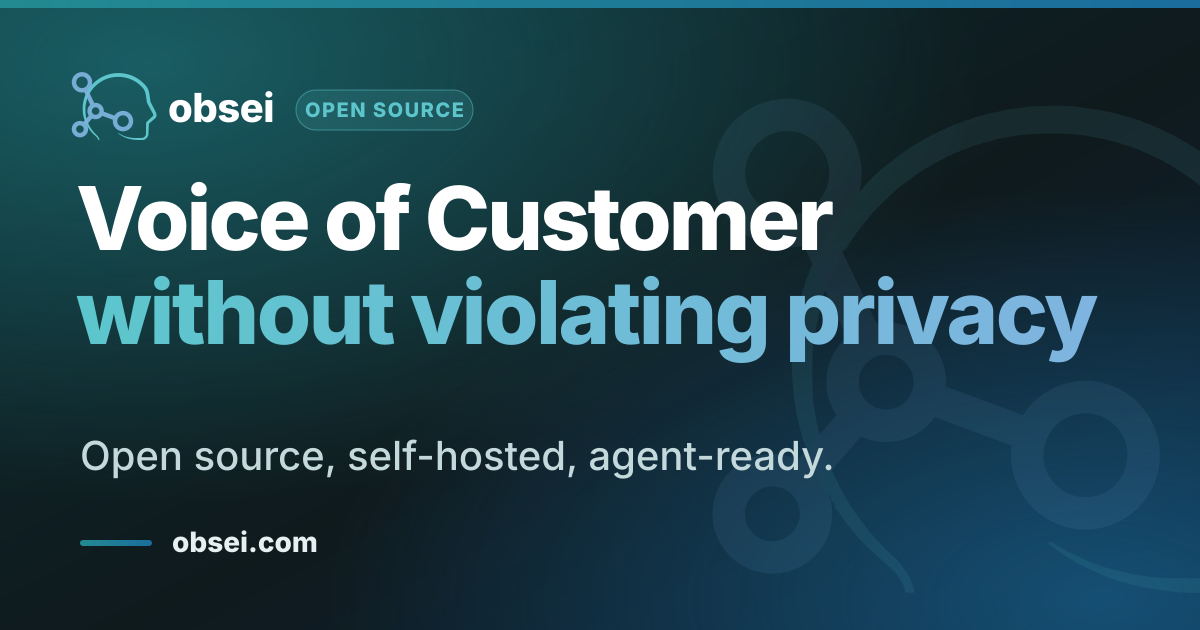
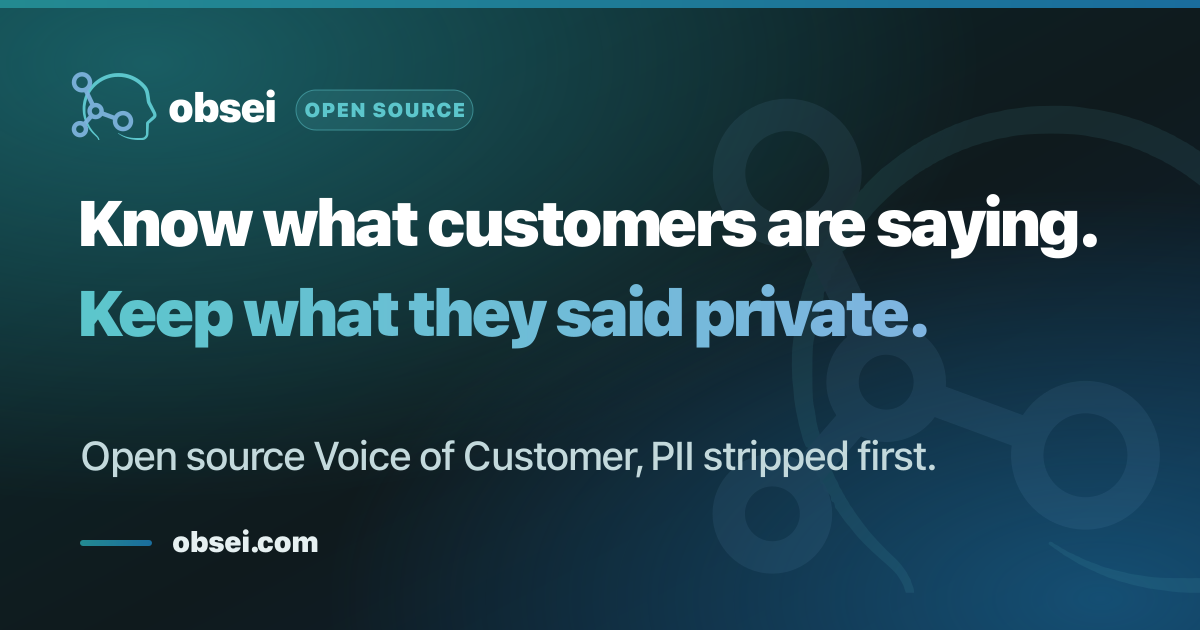
docs: one description everywhere, and a headline about customers (#475)

diff --git a/website/index.html b/website/index.html
@@ -3,26 +3,26 @@
   <head>
     <meta charset="utf-8" />
     <meta name="viewport" content="width=device-width, initial-scale=1" />
-    <title>obsei: self-hosted Voice of Customer that redacts PII</title>
-    <meta name="description" content="The self-hosted, open source alternative to Enterpret and Unwrap. obsei strips PII before any LLM sees customer feedback, from many channels and languages." />
+    <title>obsei: open source, privacy-first Voice of Customer</title>
+    <meta name="description" content="Open source customer intelligence that strips PII before any LLM sees it: a self-hosted alternative to Enterpret and Unwrap for reviews, tickets and calls." />
     <meta name="theme-color" content="#238a91" />
     <meta property="og:type" content="website" />
     <meta property="og:url" content="https://obsei.com/" />
     <link rel="canonical" href="https://obsei.com/" />
-    <meta property="og:title" content="obsei: Voice of Customer without violating privacy" />
-    <meta property="og:description" content="The self-hosted, open source alternative to Enterpret and Unwrap that strips PII before any LLM sees it." />
+    <meta property="og:title" content="obsei: open source, privacy-first Voice of Customer" />
+    <meta property="og:description" content="Open source, privacy-first Voice of Customer analytics. A self-hosted alternative to Enterpret and Unwrap that strips PII from feedback before any LLM sees it." />
     <meta property="og:site_name" content="obsei" />
     <meta property="og:image" content="https://obsei.com/og.png" />
     <meta property="og:image:type" content="image/png" />
     <meta property="og:image:width" content="1200" />
     <meta property="og:image:height" content="630" />
-    <meta property="og:image:alt" content="obsei: Voice of Customer without violating privacy. Open source, self-hosted, agent-ready." />
+    <meta property="og:image:alt" content="obsei: Know what customers are saying. Keep what they said private. Open source Voice of Customer." />
     <meta name="twitter:card" content="summary_large_image" />
-    <meta name="twitter:title" content="obsei: Voice of Customer without violating privacy" />
-    <meta name="twitter:description" content="The self-hosted, open source alternative to Enterpret and Unwrap that strips PII before any LLM sees it." />
+    <meta name="twitter:title" content="obsei: open source, privacy-first Voice of Customer" />
+    <meta name="twitter:description" content="Open source, privacy-first Voice of Customer analytics. A self-hosted alternative to Enterpret and Unwrap that strips PII from feedback before any LLM sees it." />
     <meta name="twitter:image" content="https://obsei.com/og.png" />
     <link rel="alternate" type="application/rss+xml" title="obsei blog" href="https://blog.obsei.com/rss.xml" />
-    <script type="application/ld+json">{"@context":"https://schema.org","@type":"SoftwareApplication","@id":"https://obsei.com/#software","name":"obsei","url":"https://obsei.com/","description":"The self-hosted, open source alternative to Enterpret and Unwrap that strips PII before any LLM sees it.","applicationCategory":"DeveloperApplication","applicationSubCategory":"Customer feedback analytics","featureList":["PII redaction at ingest","Author pseudonyms","Local multilingual classifier","Themes across languages","Theme spike alerts","MCP server for AI agents","Encrypted local store","Signed webhooks"],"keywords":"voice of customer, customer feedback analytics, PII redaction, self-hosted, open source, MCP, Enterpret alternative, Unwrap alternative","operatingSystem":"Linux, macOS, Windows","license":"https://www.apache.org/licenses/LICENSE-2.0","isAccessibleForFree":true,"offers":{"@type":"Offer","price":"0","priceCurrency":"USD"},"downloadUrl":"https://pypi.org/project/obsei/","installUrl":"https://docs.obsei.com/quickstart/","softwareHelp":{"@type":"CreativeWork","url":"https://docs.obsei.com/"},"codeRepository":"https://github.com/obsei/obsei","image":"https://obsei.com/og.png","screenshot":"https://obsei.com/studio-light.png","author":{"@id":"https://obsei.com/#organization"},"publisher":{"@id":"https://obsei.com/#organization"},"sameAs":["https://github.com/obsei/obsei","https://docs.obsei.com/","https://blog.obsei.com/","https://pypi.org/project/obsei/"]}</script>
+    <script type="application/ld+json">{"@context":"https://schema.org","@type":"SoftwareApplication","@id":"https://obsei.com/#software","name":"obsei","url":"https://obsei.com/","description":"Open source, privacy-first Voice of Customer analytics. A self-hosted alternative to Enterpret and Unwrap that strips PII from feedback before any LLM sees it.","applicationCategory":"DeveloperApplication","applicationSubCategory":"Customer feedback analytics","featureList":["PII redaction at ingest","Author pseudonyms","Local multilingual classifier","Themes across languages","Theme spike alerts","MCP server for AI agents","Encrypted local store","Signed webhooks"],"keywords":"voice of customer, customer feedback analytics, PII redaction, self-hosted, open source, MCP, Enterpret alternative, Unwrap alternative","operatingSystem":"Linux, macOS, Windows","license":"https://www.apache.org/licenses/LICENSE-2.0","isAccessibleForFree":true,"offers":{"@type":"Offer","price":"0","priceCurrency":"USD"},"downloadUrl":"https://pypi.org/project/obsei/","installUrl":"https://docs.obsei.com/quickstart/","softwareHelp":{"@type":"CreativeWork","url":"https://docs.obsei.com/"},"codeRepository":"https://github.com/obsei/obsei","image":"https://obsei.com/og.png","screenshot":"https://obsei.com/studio-light.png","author":{"@id":"https://obsei.com/#organization"},"publisher":{"@id":"https://obsei.com/#organization"},"sameAs":["https://github.com/obsei/obsei","https://docs.obsei.com/","https://blog.obsei.com/","https://pypi.org/project/obsei/"]}</script>
     <script type="application/ld+json">{"@context":"https://schema.org","@type":"Organization","@id":"https://obsei.com/#organization","name":"obsei","url":"https://obsei.com/","logo":{"@type":"ImageObject","url":"https://obsei.com/logo.png","width":200,"height":200},"sameAs":["https://github.com/obsei/obsei","https://docs.obsei.com/","https://blog.obsei.com/","https://pypi.org/project/obsei/"]}</script>
     <script type="application/ld+json">{"@context":"https://schema.org","@type":"FAQPage","mainEntity":[{"@type":"Question","name":"What is obsei?","acceptedAnswer":{"@type":"Answer","text":"obsei is an open source, self-hosted Voice of Customer pipeline. It collects customer feedback from app stores, support desks, communities, files and your own databases, removes personal data as it arrives, labels and groups it into themes across languages, and sends what matters to Slack, Jira, Linear, a warehouse or your AI agents."}},{"@type":"Question","name":"Is obsei free?","acceptedAnswer":{"@type":"Answer","text":"Yes. obsei is Apache-2.0 licensed, with no paid tier, no open-core split and no hosted version. You run it on your own laptop or servers."}},{"@type":"Question","name":"How is obsei different from Enterpret, Unwrap and other feedback analytics tools?","acceptedAnswer":{"@type":"Answer","text":"Hosted feedback tools process your customers' text on their servers. obsei runs on your infrastructure, strips PII before any model sees the text and can label feedback with a model on your machine, so customer data doesn't have to leave your network."}},{"@type":"Question","name":"Does obsei send customer feedback to an LLM?","acceptedAnswer":{"@type":"Answer","text":"Not by default. Redaction runs at ingest, the local classifier runs inside obsei, and the default egress policy blocks model and sink traffic to outside hosts. Feedback is sent to a model or service only if you configure it and allow its host."}},{"@type":"Question","name":"Which feedback sources does obsei support?","acceptedAnswer":{"@type":"Answer","text":"20 built in: the App Store, App Store Connect, Google Play, Zendesk, Freshdesk, Intercom, Gong, GitHub issues, Hacker News, Bluesky, YouTube, RSS, email (IMAP), SQL databases, CSV and JSON Lines files, file drops, webhooks, any REST API and any MCP tool. Reddit and Typeform source plugins install from the GitHub repository."}},{"@type":"Question","name":"Can AI agents like Claude, Cursor or Codex use obsei?","acceptedAnswer":{"@type":"Answer","text":"Yes. obsei includes an MCP server, listed in the MCP Registry, and plugins for Claude Code, Codex, the GitHub Copilot CLI and Gemini CLI that install from its GitHub repository. Cursor and VS Code add the server with an install button. Agents search, count and read redacted feedback with record ids to cite. Customer text is marked untrusted, and the only write, a proposed issue, waits for a person to approve it."}},{"@type":"Question","name":"How accurate is the classifier?","acceptedAnswer":{"@type":"Answer","text":"On obsei's 136 synthetic demo records in 11 languages, the default model, bge-m3-zeroshot-v2.0, scored 0.82 on intent, 0.90 on sentiment and 0.91 on team routing. The expected answers come from the demo's issue definitions, not human review. Run obsei eval on a labelled sample of your own feedback to measure it on your data and pick confidence cutoffs."}},{"@type":"Question","name":"How do I install obsei?","acceptedAnswer":{"@type":"Answer","text":"Run uv tool install \"obsei[recommended]\", then obsei init and obsei try in an empty folder; pip install \"obsei[recommended]\" works too. The first run downloads the local model once (about 1.2 GB) and needs no API keys. The container image ghcr.io/obsei/obsei has the sources and sinks but not the local classifier."}}]}</script>
     <link rel="icon" href="/mark.svg" type="image/svg+xml" />
@@ -44,10 +44,10 @@
     <main>
       <section class="hero wrap">
         <div class="hero-text">
-          <a class="news" href="https://github.com/obsei/obsei/releases/tag/v1.1.0"><b>New</b> obsei 1.0 is out <span aria-hidden="true">→</span></a><!-- x-release-please-version -->
-          <p class="eyebrow">Open source · Self-hosted · Apache-2.0</p>
-          <h1>Voice of Customer <span>without violating privacy</span></h1>
-          <p class="lead">The self-hosted, open source alternative to Enterpret and Unwrap that strips PII before any LLM sees it. Understand feedback from many channels and languages; nothing leaves your infrastructure unless you allow it.</p>
+          <a class="news" href="https://github.com/obsei/obsei/releases/tag/v1.1.0"><b>New</b> obsei 1.1.0 is out <span aria-hidden="true">→</span></a><!-- x-release-please-version -->
+          <p class="eyebrow">Open source Voice of Customer · Self-hosted · Apache-2.0</p>
+          <h1>Know what customers are saying. <span>Keep what they said private.</span></h1>
+          <p class="lead">The open source, self-hosted alternative to Enterpret and Unwrap. obsei reads reviews, tickets, calls and surveys in many languages and strips personal data before any model sees it. Nothing leaves your infrastructure unless you allow it.</p>
           <div class="actions">
             <a class="button" href="https://docs.obsei.com/quickstart/">Get started</a>
             <a class="button ghost" href="https://docs.obsei.com/demo/">Live demo</a>

diff --git a/packages/obsei/README.md b/packages/obsei/README.md
@@ -4,7 +4,7 @@
 
 # obsei
 
-**Voice of Customer without violating privacy.** The self-hosted, open source alternative to Enterpret and Unwrap that strips PII before any LLM sees it.
+**Know what customers are saying. Keep what they said private.** The self-hosted, open source alternative to Enterpret and Unwrap that strips PII before any LLM sees it.
 Collect feedback from every channel and language, redact personal data before it is stored, find
 stable themes, and let your AI agents answer questions with cited evidence.
 

diff --git a/README.md b/README.md
@@ -4,7 +4,7 @@
 
 <h1 align="center">obsei</h1>
 
-<p align="center"><b>Voice of Customer without violating privacy.</b><br>
+<p align="center"><b>Know what customers are saying. Keep what they said private.</b><br>
 The self-hosted, open source alternative to Enterpret and Unwrap that strips PII before any LLM sees it.<br>Bring your own sources, models and agents.</p>
 
 <p align="center">
